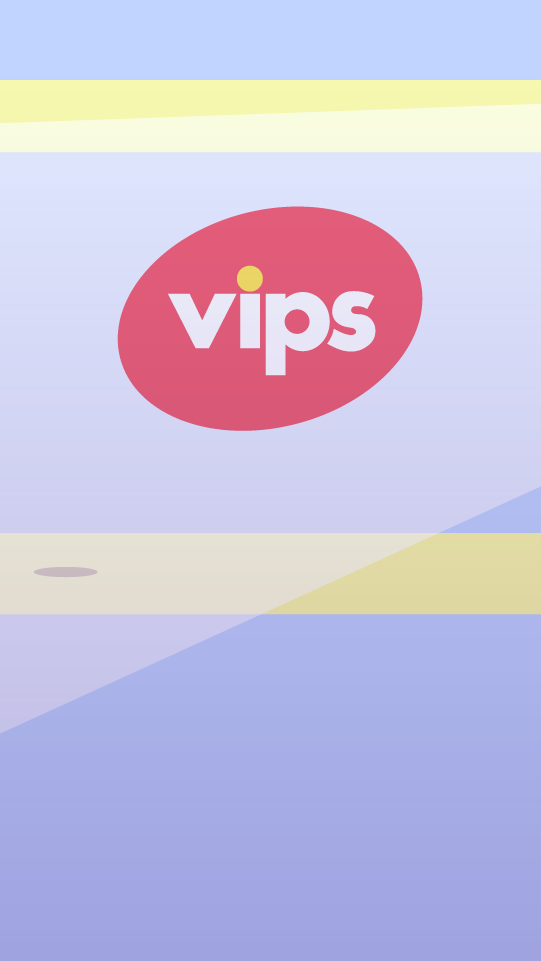
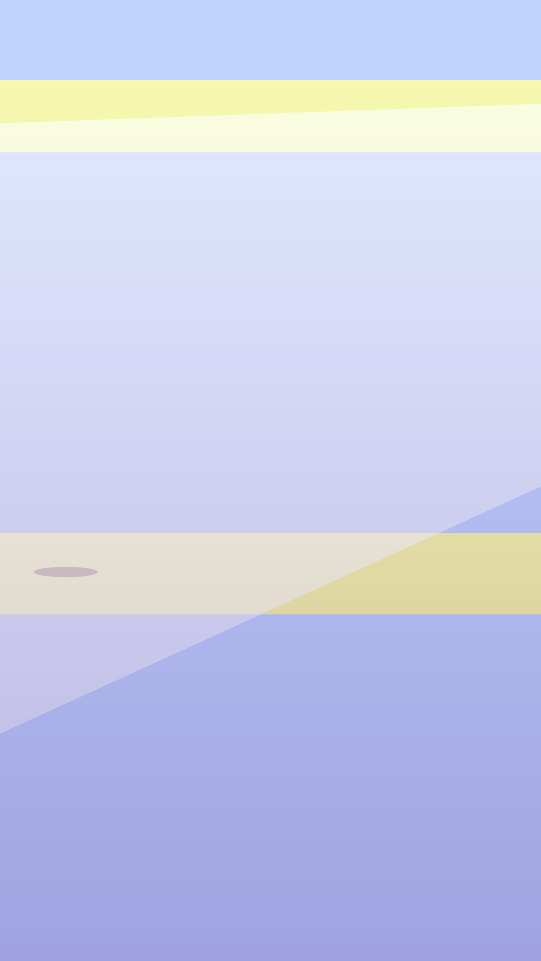
cambios vips

Changed region(s): [[0.207, 0.1873, 0.7985, 0.4683]]

diff --git a/minigames/vips/js/scenes/vips.js b/minigames/vips/js/scenes/vips.js
@@ -11,6 +11,9 @@ var vips = function(){
         images: [
             {   name:"fondo",
 				file: "images/vips/fondo.png"},
+            {   name:"logo",
+				file: "images/vips/logo.png"},
+            
 		],
 		sounds: [
             {	name: "pop",
@@ -132,7 +135,7 @@ var vips = function(){
         game.stage.backgroundColor = "#ffffff"
         gameActive = true
         lives = 3
-        gravity = 100
+        gravity = 500
 		shoot=false
 		inGoal=false
 		inGround=false
@@ -339,22 +342,7 @@ var vips = function(){
 			character.body.velocity.x =speed;
             efectZoom.alpha=1
             game.add.tween(efectZoom).to({alpha:0},speed, Phaser.Easing.Cubic.Out,true)
-            if(randCharac==0){
-		      character.loadTexture("atlas.vips","cafe2")
-		      }
-		      if(randCharac==1){
-		      character.loadTexture("atlas.vips","enchiladas2")
-		      }
-		      if(randCharac==2){
-		      character.loadTexture("atlas.vips","malteada2")
-		      }
-		      if(randCharac==3){
-		      character.loadTexture("atlas.vips","soda2")
-		      }
-              if(randCharac==4){
-		      character.loadTexture("atlas.vips","pay2")
-		      }
-            
+       
 			shooted=true
 			speed=0
 			game.add.tween(powerBar.scale).to({x: 0,y:2}, 200, Phaser.Easing.linear, true)
@@ -707,6 +695,7 @@ var vips = function(){
 		}
 		character.position.x=game.world.x+30
 		character.position.y=game.world.centerY+230
+        character.body.angle=0
         
     }
 	function miniReset(){
@@ -716,21 +705,7 @@ var vips = function(){
 		
 		if(inGoal==false && lives>0){
 			missPoint()
-             if(randCharac==0){
-		      character.loadTexture("atlas.vips","cafe1")
-		      }
-              if(randCharac==1){
-		      character.loadTexture("atlas.vips","enchiladas1")
-		      }
-		      if(randCharac==2){
-		      character.loadTexture("atlas.vips","malteada1")
-		      }
-		      if(randCharac==3){
-		      character.loadTexture("atlas.vips","soda1")
-		      }
-              if(randCharac==4){
-		      character.loadTexture("atlas.vips","pay1")
-		      }
+
             wrongParticle.position.x=character.position.x+50
             wrongParticle.position.y=character.position.y
             wrongParticle.start(true, 1000, null, 5)
@@ -751,6 +726,7 @@ var vips = function(){
 					if(randCharac==4){
 					character.reset(game.world.x+90,game.world.centerY+170)
                     }
+                    character.body.angle=0
 					shooted=false
 					inGoal=false
 			}
@@ -814,13 +790,10 @@ var vips = function(){
         
         var background = backgroundGroup.create(-2,-2,'fondo')
 		//var background=game.add.tileSprite(0,0,game.world.width,game.world.height,'fondo')
+        backgroundGroup.create(game.world.centerX-100,game.world.centerY-200,'logo')
          
 		 
-		 if(game.world.width>1024){
-		 background.width = game.world.x+1024
-		 }else{
 		 background.width = game.world.width
-		 }
          background.height = game.world.height
         
         loadSounds()
@@ -968,14 +941,14 @@ var vips = function(){
 		
 		
         
-        character=game.add.sprite(game.world.x+50,game.world.centerY+150,"atlas.vips","cafe1")
+        character=game.add.sprite(game.world.x+50,game.world.centerY+150,"atlas.vips","malteada1")
         sceneGroup.add(character)
         
         game.physics.p2.enable([ character ]);
         character.body.friction=4
-        character.body.fixedRotation=true
+        //character.body.fixedRotation=true
         character.body.clearShapes()
-        character.body.loadPolygon('physicsData', "cafe1");
+        character.body.loadPolygon('physicsData', "malteada1");
 		character.body.onBeginContact.add(where, this);
 		
         efectZoom=game.add.sprite(character.x-90,character.y,"atlas.vips","zooom")
